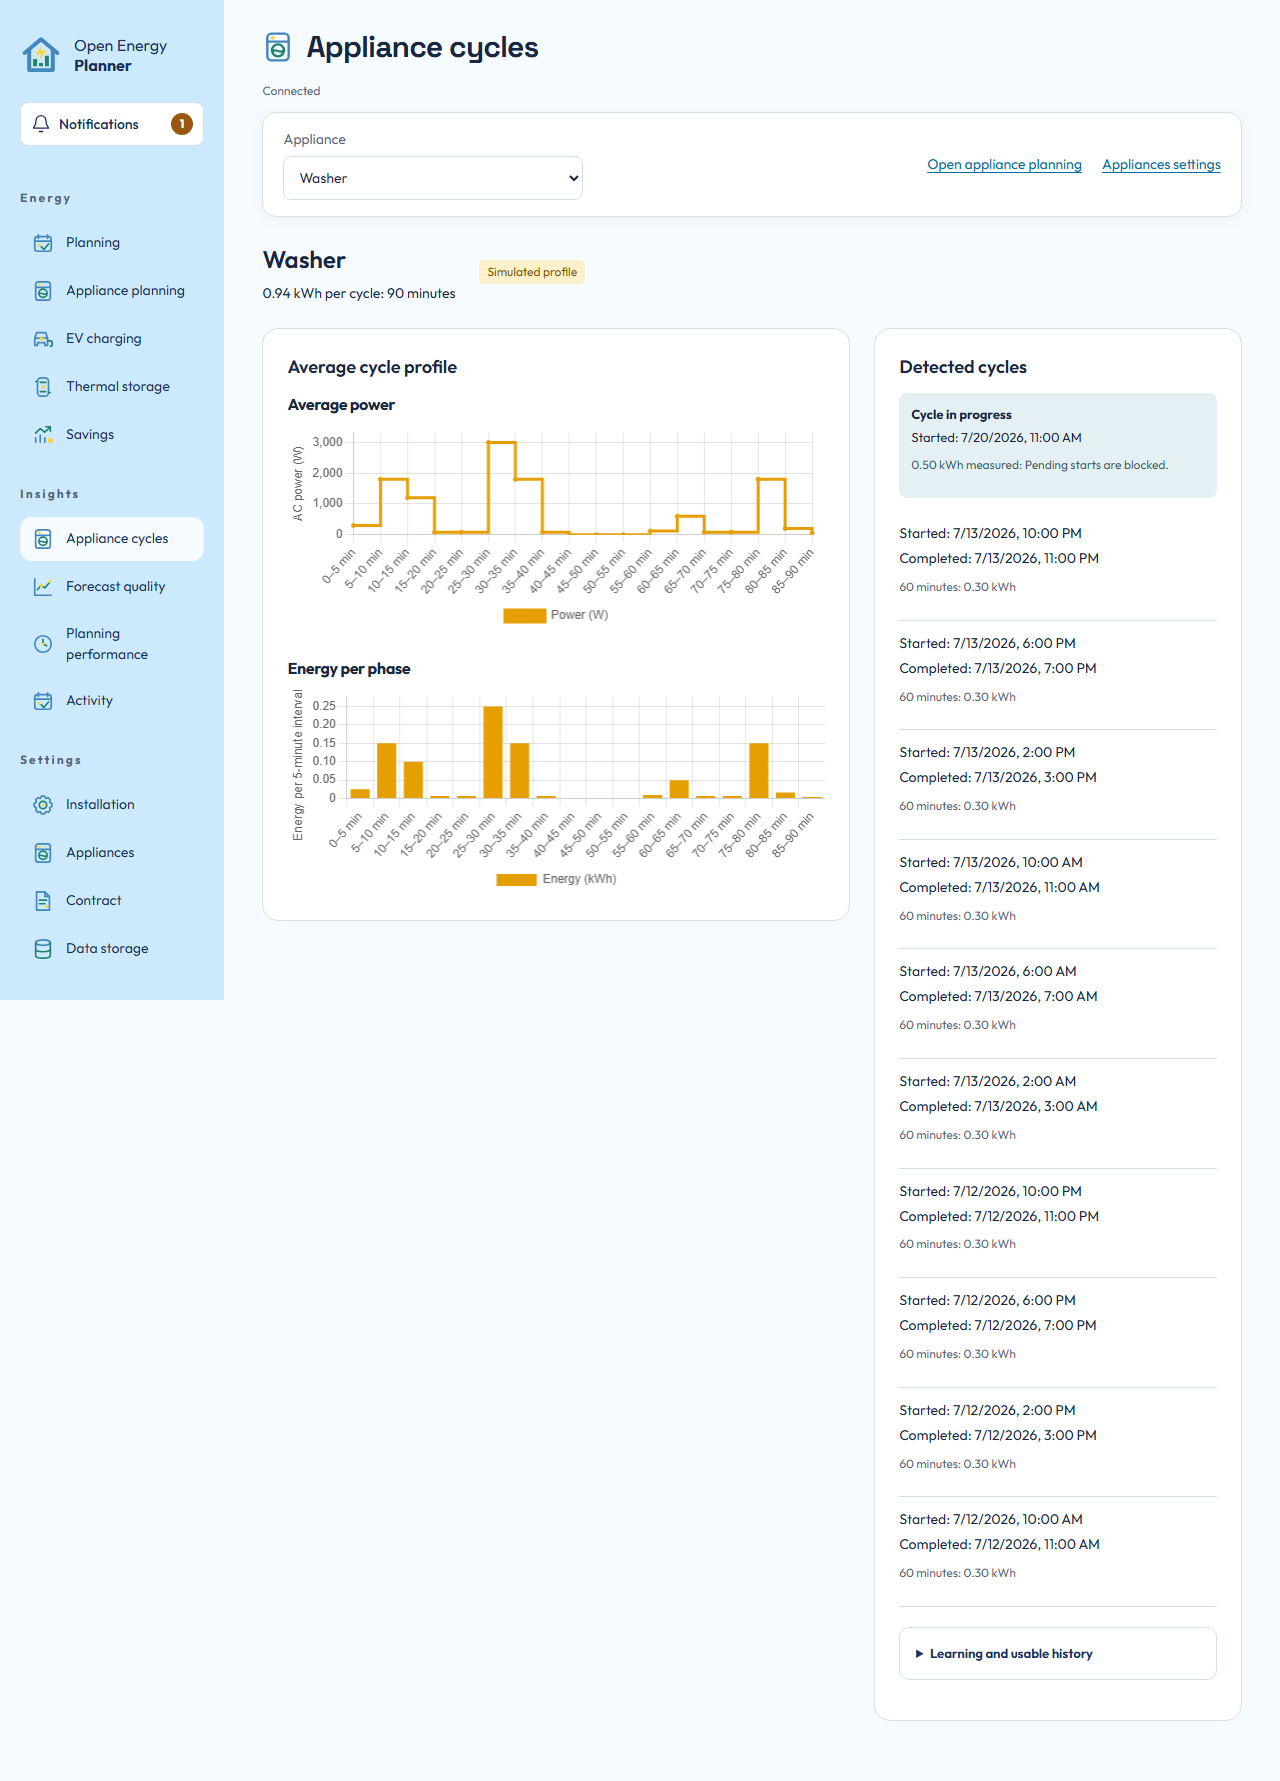
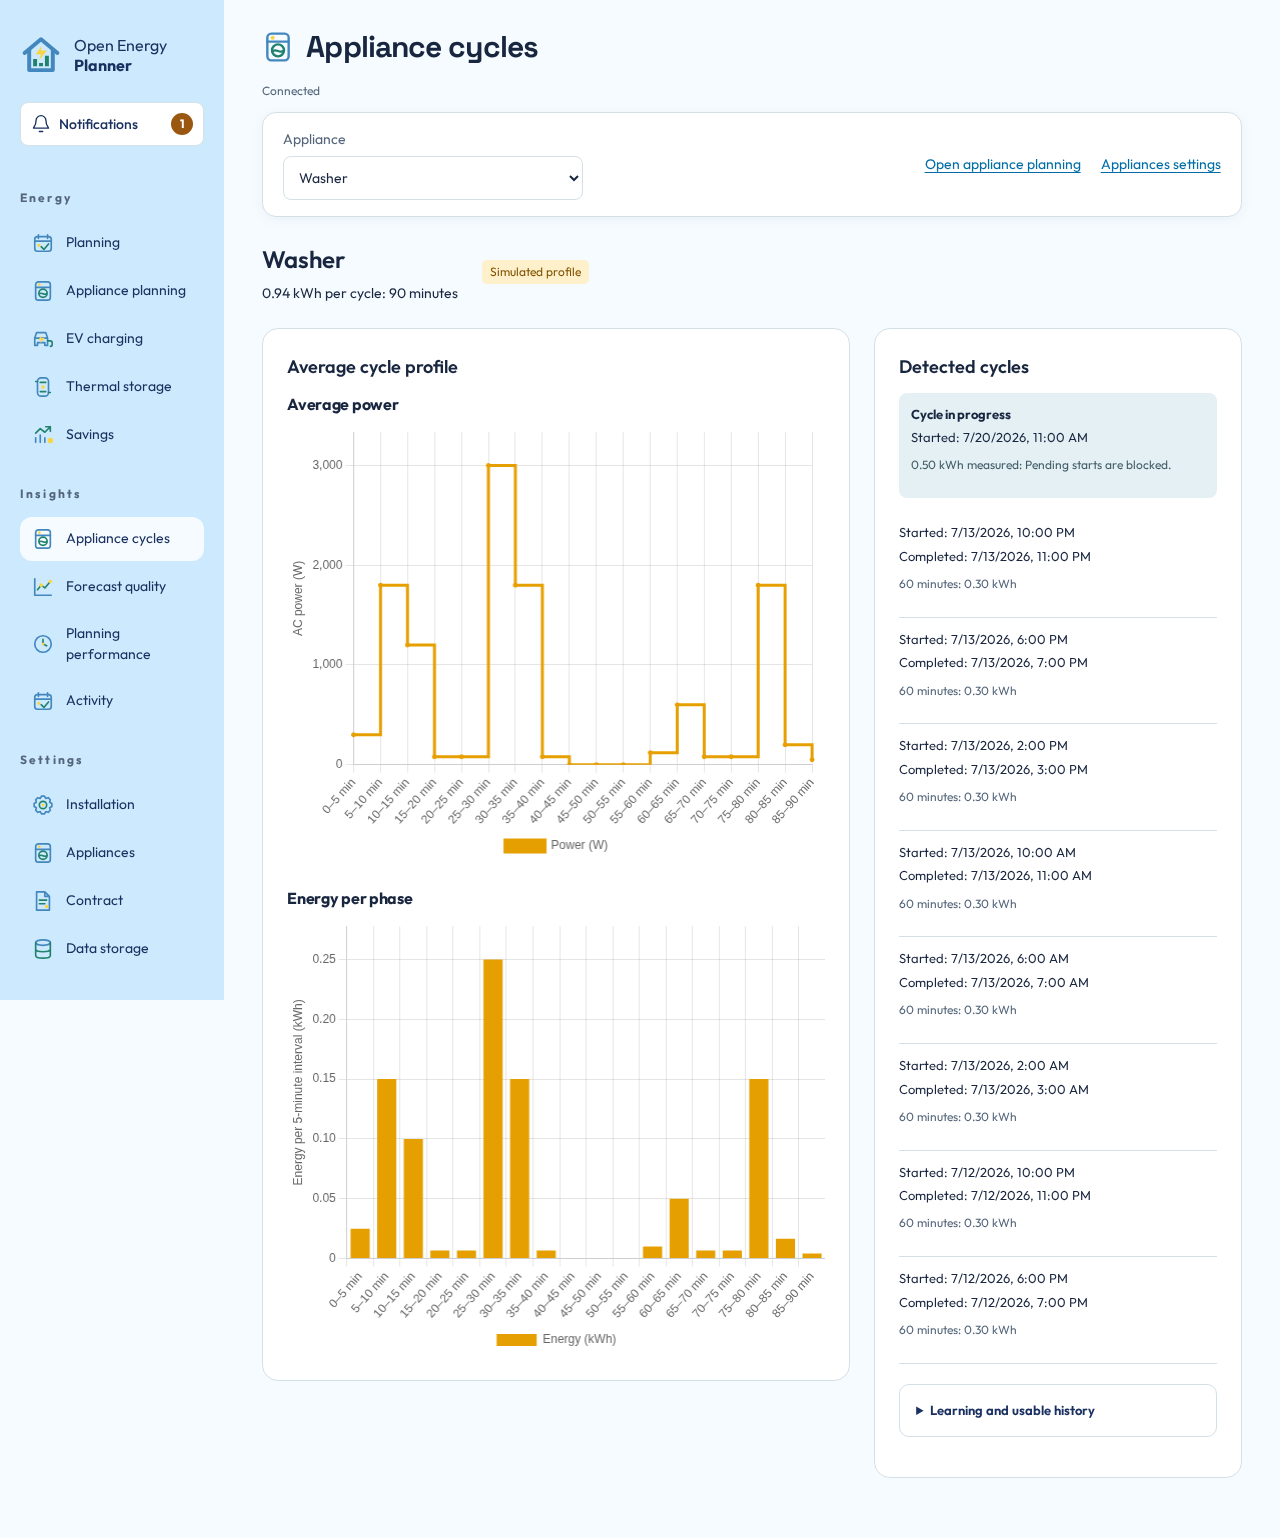
fix: give appliance cycle profiles more chart space

diff --git a/src/open_energy_planner/web/public/appliance-cycles.css b/src/open_energy_planner/web/public/appliance-cycles.css
@@ -12,7 +12,7 @@
 .cycle-columns { display:grid; grid-template-columns:minmax(0,1.6fr) minmax(320px,1fr); align-items:start; gap:var(--oep-panel-gap); }
 .cycle-columns > * { min-width:0; }
 .cycles-workspace #cycle-charts { grid-template-columns:minmax(0,1fr); }
-.cycles-workspace .chart-wrap { height:210px; }
+.cycles-workspace .chart-wrap { height:440px; }
 .cycles-workspace .cycle-columns > .chart-card > h2 { margin-top:0; }
 .cycles-workspace #profile-history { overflow-wrap:anywhere; }
 .cycles-workspace #profile-history .evidence-card { border:0; border-top:1px solid var(--oep-line); border-radius:0; padding:16px 0 0; margin-top:20px; }
@@ -22,6 +22,7 @@
 .cycles-workspace #detected-cycles > li { padding:12px 0; border-bottom:1px solid var(--oep-line); }
 .cycles-workspace #cycle-in-progress { display:grid; gap:4px; padding:12px; background:#e5f0f5; border-radius:8px; }
 .cycle-run-label { display:grid; gap:4px; }
+.cycle-run-label > span { white-space:nowrap; font-size:13px; }
 .cycle-run-label small { color:var(--oep-muted); }
 .cycles-workspace #learning-history { margin-top:20px; }
 @media(max-width:1100px) {
@@ -31,5 +32,5 @@
     .cycles-workspace .page-header { flex-wrap:wrap; }
     .cycles-workspace .settings-toolbar > label { width:100%; }
     .cycles-workspace .settings-actions { justify-content:flex-start; }
-    .cycles-workspace .chart-wrap { height:230px; }
+    .cycles-workspace .chart-wrap { height:280px; }
 }

diff --git a/src/open_energy_planner/web/public/appliance-cycles.js b/src/open_energy_planner/web/public/appliance-cycles.js
@@ -7,7 +7,7 @@ import {applianceApi, readApplianceEvidence, followedDevices} from "./appliance-
 bindSettingsActions();
 const find = id => document.getElementById(id);
 let token = "", chart, energyChart, current, renderedProfile;
-const RECENT_CYCLE_LIMIT = 10;
+const RECENT_CYCLE_LIMIT = 8;
 const CYCLE_EVIDENCE_REFRESH_MS = 5 * 60 * 1000;
 let evidenceRefreshing = false, evidenceStarted = false;
 let historyEntity, renderedHistory, historyTimezone, initialEntity;

diff --git a/tests/frontend/browser/test_appliance_cycles.py b/tests/frontend/browser/test_appliance_cycles.py
@@ -14,7 +14,7 @@ from tests.frontend.browser.helpers import TOKEN
     "app_page", [{"width": 1280, "height": 1000}, {"width": 390, "height": 844}], indirect=True
 )
 def test_planning_links_select_device_and_insights_retain_unshiftable_history(app_page):
-    """Device identity, ten recent cycles, retained models and narrow screens survive the page split."""
+    """Device identity, eight recent cycles, retained models and narrow screens survive the page split."""
     page, url = app_page
     page.clock.install()
     start = datetime(2026, 11, 1, tzinfo=UTC)
@@ -72,7 +72,7 @@ def test_planning_links_select_device_and_insights_retain_unshiftable_history(ap
     authenticate(page, url)
     expect(page.locator("#profile-device")).to_have_value("sensor.dishwasher")
     expect(page.get_by_role("button", name="Appliance is ready", exact=True)).to_have_count(0)
-    expect(page.locator("#detected-cycles > li")).to_have_count(10)
+    expect(page.locator("#detected-cycles > li")).to_have_count(8)
     expect(page.get_by_role("button", name="Next", exact=True)).to_have_count(0)
     expect(page.get_by_role("button", name="Previous", exact=True)).to_have_count(0)
     expect(page.locator("#detected-cycles details")).to_have_count(0)
@@ -81,7 +81,7 @@ def test_planning_links_select_device_and_insights_retain_unshiftable_history(ap
     expect(first).to_contain_text("Completed:")
     with page.expect_response("**/v1/appliances"):
         page.clock.fast_forward(300000)
-    expect(page.locator("#detected-cycles > li")).to_have_count(10)
+    expect(page.locator("#detected-cycles > li")).to_have_count(8)
     page.locator("#profile-device").select_option("sensor.washer")
     expect(page.locator("#profile-history")).to_contain_text("The learned profile is retained")
     expect(page.locator("#profile-history")).to_contain_text("Fine cycles in model")
@@ -185,7 +185,7 @@ def review_evidence(app_page):
     "app_page", [{"width": 1280, "height": 1000}, {"width": 390, "height": 844}], indirect=True
 )
 def test_poll_updates_active_and_completed_cycles_without_replacing_profile(review_evidence):
-    """Running and uncertain activity stays above ten completed runs while unchanged charts retain identity."""
+    """Running and uncertain activity stays above eight completed runs while unchanged charts retain identity."""
     page, devices, _ = review_evidence
     first = page.locator("#detected-cycles > li").first
     chart_identity = page.locator("#cycle-chart").evaluate("canvas => Chart.getChart(canvas).id")
@@ -203,7 +203,7 @@ def test_poll_updates_active_and_completed_cycles_without_replacing_profile(revi
     expect(active).to_contain_text("Cycle in progress")
     expect(active).to_contain_text("Started:")
     expect(first).to_contain_text("1.23 kWh")
-    expect(page.locator("#detected-cycles > li")).to_have_count(10)
+    expect(page.locator("#detected-cycles > li")).to_have_count(8)
     assert active.bounding_box()["y"] < first.bounding_box()["y"]
     assert (
         page.locator("#cycle-chart").evaluate("canvas => Chart.getChart(canvas).id")
@@ -232,6 +232,8 @@ def test_page_selection_controls_profile_and_right_hand_history(review_evidence)
     energy = page.locator("#cycle-energy-chart").bounding_box()
     assert selector["y"] + selector["height"] <= profile["y"]
     assert energy["y"] >= power["y"] + power["height"]
+    assert power["height"] >= (400 if page.viewport_size["width"] > 640 else 280)
+    assert energy["height"] >= (400 if page.viewport_size["width"] > 640 else 280)
     if page.viewport_size["width"] > 1100:
         assert history["x"] > power["x"] + power["width"]
         assert abs(history["y"] - profile["y"]) < 2
@@ -365,8 +367,8 @@ def test_back_to_empty_entity_fragment_restores_initial_device(review_evidence):
 @pytest.mark.parametrize(
     "app_page", [{"width": 1280, "height": 1000}, {"width": 390, "height": 844}], indirect=True
 )
-def test_cycle_history_uses_five_minute_poll_and_latest_ten_by_completion(review_evidence):
-    """No reads happen before five minutes and unordered evidence still shows the ten newest completions."""
+def test_cycle_history_uses_five_minute_poll_and_latest_eight_by_completion(review_evidence):
+    """No reads happen before five minutes and unordered evidence still shows the eight newest completions."""
     page, devices, _ = review_evidence
     requests = []
     page.on("request", lambda request: requests.append(request.url))
@@ -379,10 +381,10 @@ def test_cycle_history_uses_five_minute_poll_and_latest_ten_by_completion(review
     with page.expect_response("**/v1/appliances"):
         page.clock.fast_forward(1)
     rows = page.locator("#detected-cycles > li")
-    expect(rows).to_have_count(10)
+    expect(rows).to_have_count(8)
     expect(rows.first).to_contain_text("7/13/2026, 9:00 PM")
     expect(rows.first).to_contain_text("7/13/2026, 10:00 PM")
-    expect(rows.last).to_contain_text("7/12/2026, 9:00 AM")
+    expect(rows.last).to_contain_text("7/12/2026, 5:00 PM")
     expect(page.locator("#detected-cycles details")).to_have_count(0)
     assert not any("raw_entity=" in address for address in requests)
 
@@ -429,7 +431,7 @@ def test_initial_cycle_read_failure_retries_without_manual_refresh(review_eviden
     "app_page", [{"width": 1280, "height": 1000}, {"width": 390, "height": 844}], indirect=True
 )
 def test_cycle_rows_follow_installation_timezone_and_capture_compact_history(review_evidence):
-    """A representative complete profile, ten inline runs and active status stay readable in the HA timezone."""
+    """A representative complete profile, eight inline runs and active status stay readable in the HA timezone."""
     page, devices, session = review_evidence
     devices[0]["profile"] = {
         "power_w": [
@@ -466,8 +468,14 @@ def test_cycle_rows_follow_installation_timezone_and_capture_compact_history(rev
     first = page.locator("#detected-cycles > li").first
     expect(first).to_contain_text("7/13/2026, 10:00 PM")
     expect(first).to_contain_text("7/13/2026, 11:00 PM")
+    for timestamp in page.locator("#detected-cycles > li > span").all():
+        assert timestamp.evaluate("""element => {
+            const range = document.createRange();
+            range.selectNodeContents(element);
+            return range.getClientRects().length === 1 && element.scrollWidth <= element.clientWidth;
+        }""")
     expect(page.locator("#cycle-in-progress")).to_contain_text("11:00 AM")
-    expect(page.locator("#detected-cycles > li")).to_have_count(10)
+    expect(page.locator("#detected-cycles > li")).to_have_count(8)
     expect(page.locator("#learning-history")).not_to_have_attribute("open", "")
     assert page.evaluate("document.documentElement.scrollWidth <= innerWidth")
     page.evaluate("""() => {

diff --git a/docs/users/appliances.md b/docs/users/appliances.md
@@ -51,13 +51,17 @@ recency weights and explanations of the underlying measurements.
 These details start collapsed and stay open during refreshes for the same appliance.
 Profile limitations and uncertain measured activity remain visible outside them.
 
-[![A learned cycle profile with active activity and ten recent completed cycles.](../assets/appliance-cycles.png)](../assets/appliance-cycles.png)
+[![A learned cycle profile with active activity and eight recent completed cycles.](../assets/appliance-cycles.png)](../assets/appliance-cycles.png)
+
+[View the mobile layout.](../assets/appliance-cycles-mobile.png)
 
 *This synthetic example shows a complete average profile, a running cycle and
-ten recent completions. Learning details remain collapsed below the list.*
+eight recent completions. Learning details remain collapsed below the list.*
 
-**Detected cycles** shows the ten most recent completed cycles, newest first.
+**Detected cycles** shows the eight most recent completed cycles, newest first.
 Each row includes its start, completion, duration and energy without expanding it.
+Start and completion each stay on one line. Taller profile charts give the power
+and phase energy patterns more room beside the recent cycles.
 A detected running cycle appears above the completed cycles with its start time
 and energy measured so far. Uncertain execution remains explicit. Only complete
 accepted cycles refine the model. The page refreshes automatically every five
